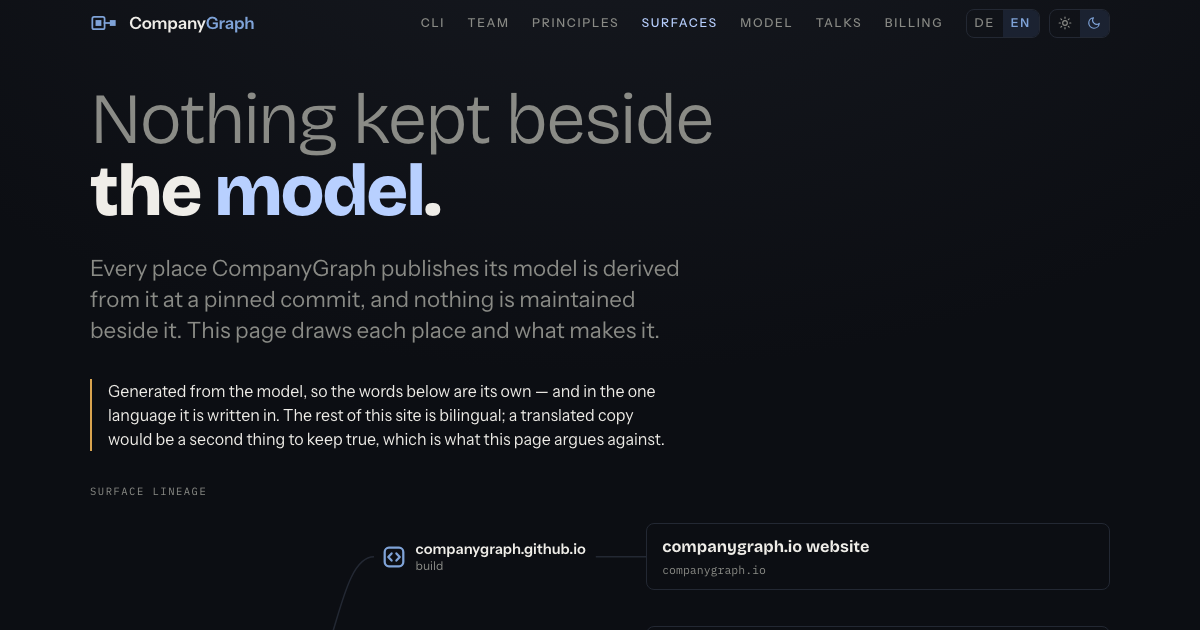
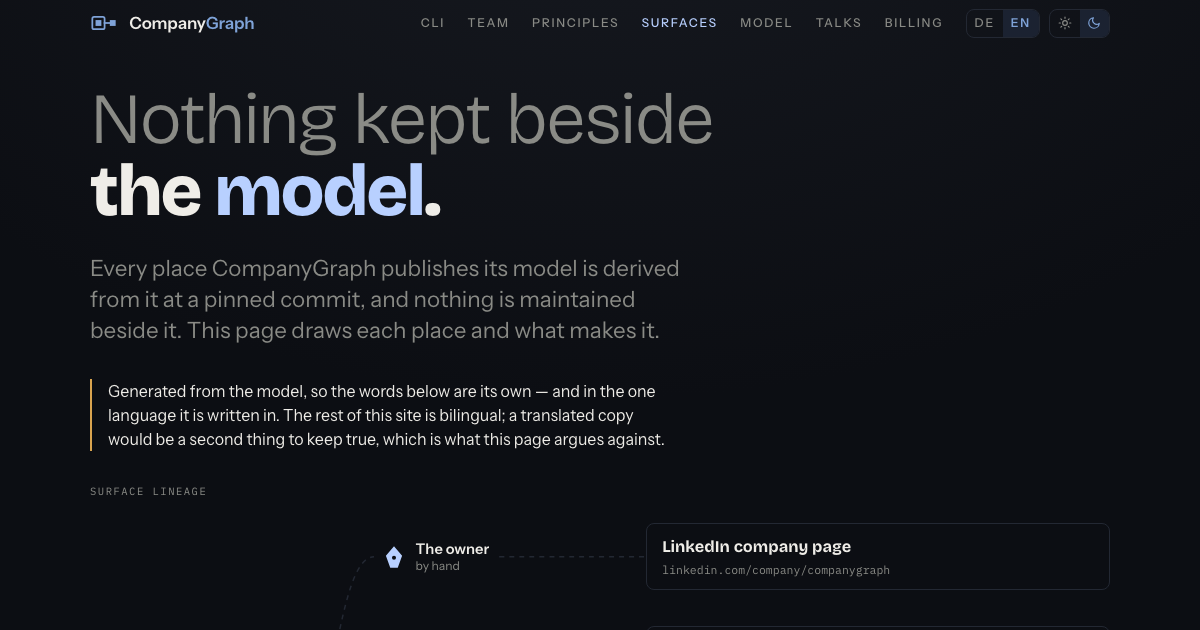
companygraph.io lists the LinkedIn company page among its surfaces
The model at companygraph/mental-model e295b0a records the LinkedIn company page as a written surface and makes "Your company doesn't compile." the brand's promise. This site takes that merge commit for the landing page's own instance and rebuilds company.json and the pages drawn from it, so the Surfaces page shows the page under the owner's hand beside the three built ones.

Verified: build:check, pages:check, pin:check, design:check, sitemap:check, og:check, test:build, test:og and test:d3 pass, and verify passes against the worktree served on a free port; company.json names mental-model@e295b0a and the Surfaces page carries the LinkedIn company page in a group made by hand.

Changed region(s): [[0.555, 0.8444, 0.74, 0.9349], [0.3083, 0.8444, 0.4933, 0.9048]]

diff --git a/principles/index.html b/principles/index.html
@@ -265,7 +265,7 @@
       </article>
     </section>
 
-    <p class="derived" data-de="Erzeugt aus <a href='https://github.com/companygraph/mental-model'>companygraph/mental-model</a>@8f6bec6 – <code class='mono'>model/vision.md</code> und <code class='mono'>model/values/</code>. Dieses Repository ist eine Instanz von <a href='https://companygraph.io/'>CompanyGraph</a>, einem Meta-Modell, das ein Unternehmen als Graph aus Markdown beschreibt.">Generated from <a href="https://github.com/companygraph/mental-model">companygraph/mental-model</a>@8f6bec6 — <code class="mono">model/vision.md</code> and <code class="mono">model/values/</code>. That repository is an instance of <a href="https://companygraph.io/">CompanyGraph</a>, a meta-model for describing a company as a graph of Markdown.</p>
+    <p class="derived" data-de="Erzeugt aus <a href='https://github.com/companygraph/mental-model'>companygraph/mental-model</a>@e295b0a – <code class='mono'>model/vision.md</code> und <code class='mono'>model/values/</code>. Dieses Repository ist eine Instanz von <a href='https://companygraph.io/'>CompanyGraph</a>, einem Meta-Modell, das ein Unternehmen als Graph aus Markdown beschreibt.">Generated from <a href="https://github.com/companygraph/mental-model">companygraph/mental-model</a>@e295b0a — <code class="mono">model/vision.md</code> and <code class="mono">model/values/</code>. That repository is an instance of <a href="https://companygraph.io/">CompanyGraph</a>, a meta-model for describing a company as a graph of Markdown.</p>
     <!-- principles:end -->
   </div>
 </main>

diff --git a/surfaces/index.html b/surfaces/index.html
@@ -311,8 +311,14 @@
       <!-- surfaces:start -->
       <div class="lineage" id="lineage">
         <svg class="wires" id="wires" aria-hidden="true"></svg>
-        <div class="ln-model" id="lnmodel"><div class="lbl" data-de="Das Modell">The model</div><div class="nm">mental-model</div><div class="at mono">@8f6bec6</div></div>
+        <div class="ln-model" id="lnmodel"><div class="lbl" data-de="Das Modell">The model</div><div class="nm">mental-model</div><div class="at mono">@e295b0a</div></div>
         <ul class="ln-groups">
+          <li class="ln-group hand">
+            <div class="ln-maker" data-maker="hand"><svg class="mk hand" aria-hidden="true"><use href="#m-hand"/></svg><span class="who"><span data-de="Der Owner">The owner</span><span class="how" data-de="von Hand">by hand</span></span></div>
+            <ul class="ln-surfaces">
+              <li><button class="ln-s" type="button" id="linkedin-company-page" data-id="surfaces/linkedin-company-page" data-maker="hand" aria-pressed="false" aria-controls="lnpanel"><span class="nm">LinkedIn company page</span><span class="host">linkedin.com/company/companygraph</span></button></li>
+            </ul>
+          </li>
           <li class="ln-group">
             <div class="ln-maker" data-maker="https://github.com/companygraph/companygraph.github.io"><svg class="mk build" aria-hidden="true"><use href="#m-build"/></svg><span class="who">companygraph.github.io<span class="how" data-de="Build">build</span></span></div>
             <ul class="ln-surfaces">
